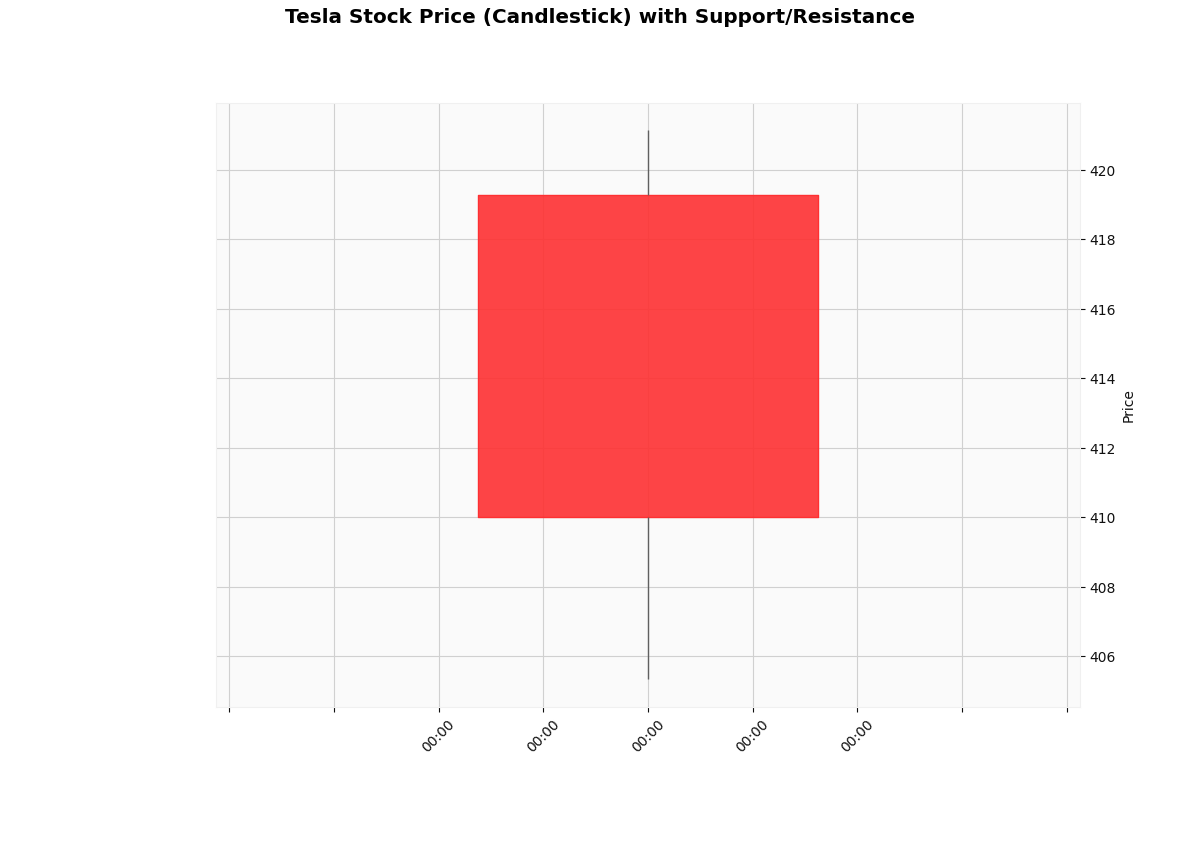
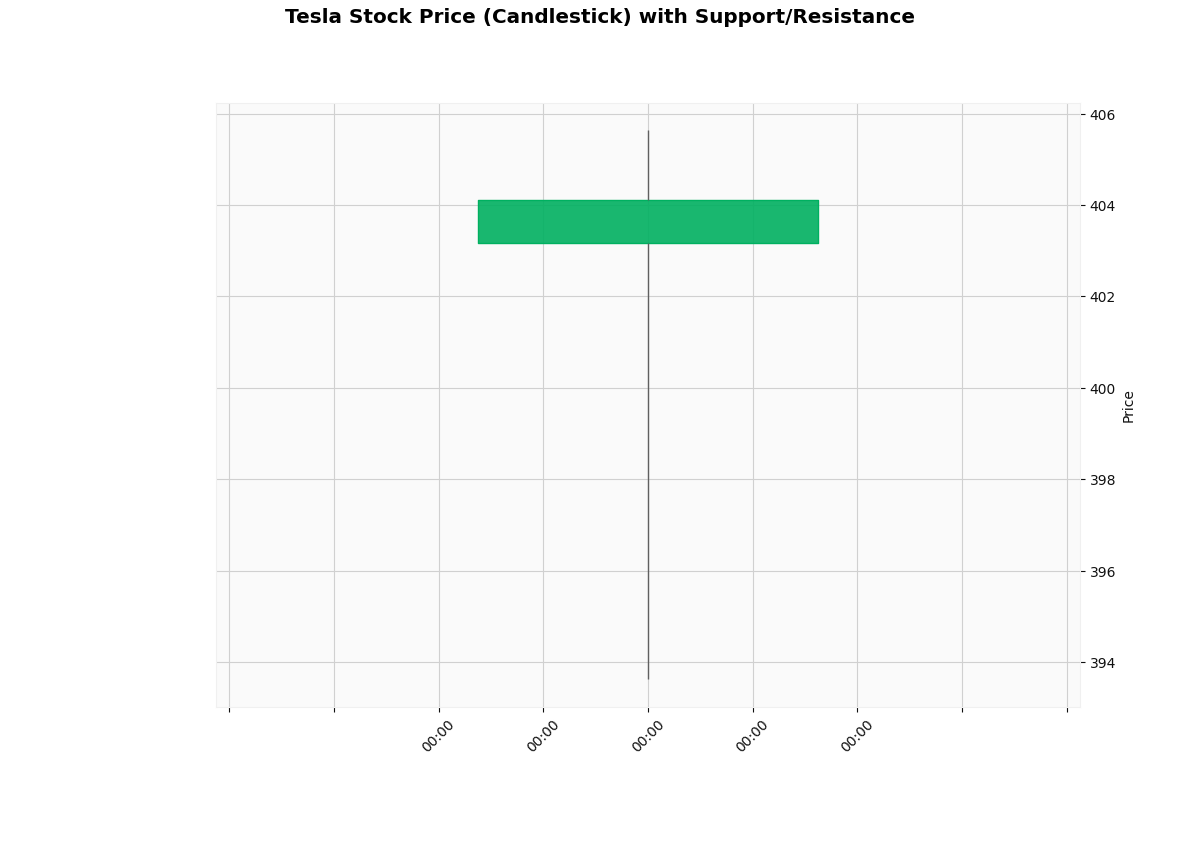
Daily update: Tesla stock chart and news

diff --git a/README.md b/README.md
@@ -69,7 +69,8 @@ For automated daily updates on GitHub, you need to set your API keys as **GitHub
 
 ## Tesla Stock Chart
 
-![Tesla Stock Chart](charts/tesla_stock_chart.png?20260519172422)
+![Tesla Stock Chart](charts/tesla_stock_chart.png?20260520173754)
+
 
 
 
@@ -359,7 +360,7 @@ _Source: ir.tesla.com - Dec 12, 2012 ... This new facility will serve as Tesla's
 
 **[Tesla Motors Releases Fourth Quarter & Full Year 2011 Financial ...](https://ir.tesla.com/press-release/tesla-motors-releases-fourth-quarter-full-year-2011-financial)**
 
-_Source: ir.tesla.com - Feb 15, 2012 ... PALO ALTO, CA -- (MARKET WIRE) -- 02/15/12 -- Tesla Motors, Inc. (NASDAQ: TSLA) today released its fourth quarter and full year 2011 ..._
+_Source: ir.tesla.com - Feb 15, 2012 ... Tesla has delivered more than 2,150 Roadsters, the world's first electric sports car, to customers world-wide. Model S, the first premium sedan ..._
 
 **[Tesla Motors Delivers World's First Premium Electric Sedan to ...](https://ir.tesla.com/press-release/tesla-motors-delivers-worlds-first-premium-electric-sedan)**
 